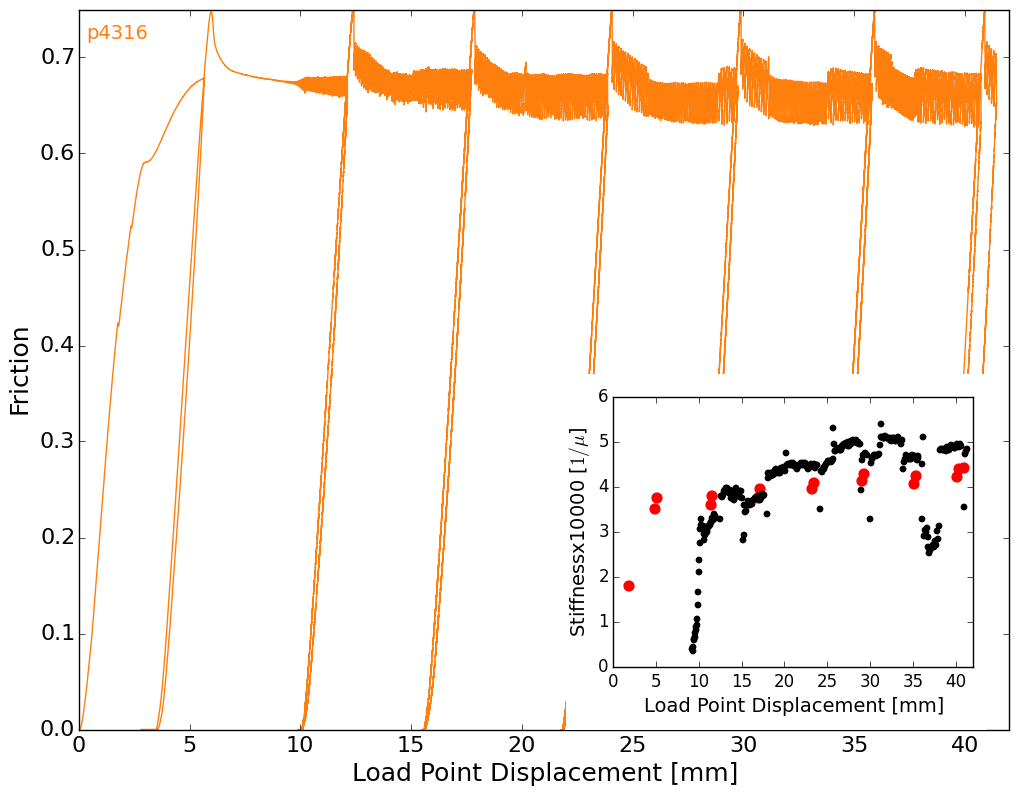
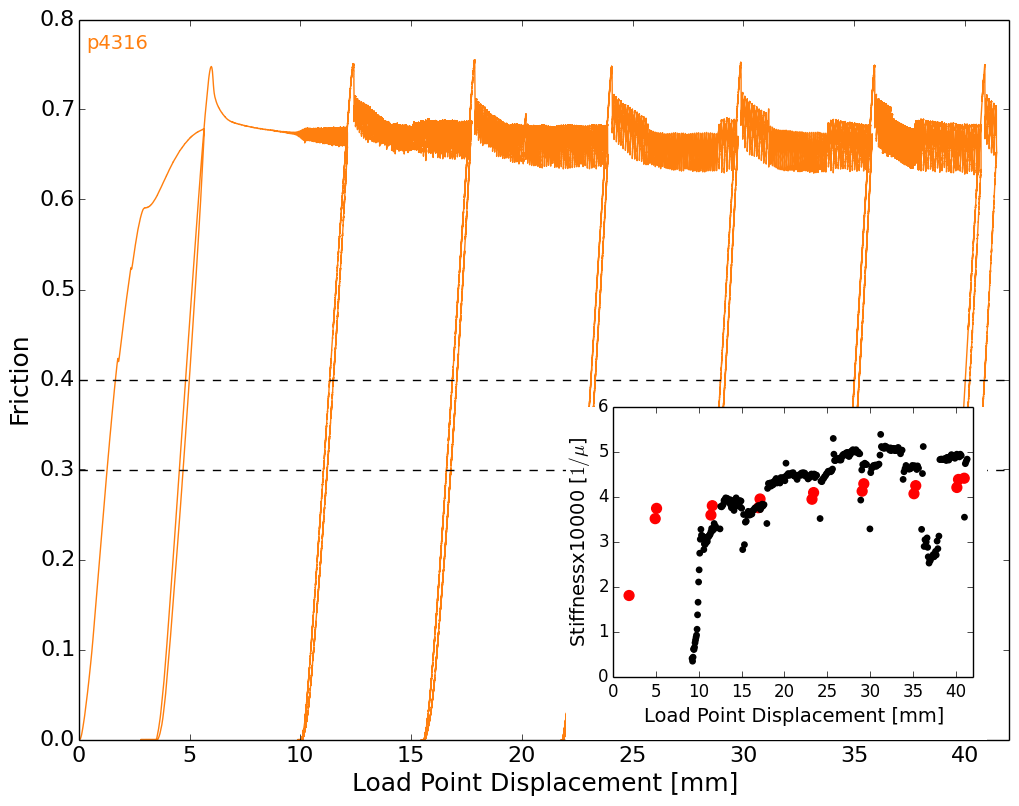
Add horizontal lines to mark linear potion and change y axis scaling

diff --git a/Figures/Fig_Unload_Reloads/make_plot.py b/Figures/Fig_Unload_Reloads/make_plot.py
@@ -54,7 +54,11 @@ axA.tick_params(axis='both', which='major', labelsize=16)
 
 axA.plot(p4316['LP_Disp'][::10]/1000.,p4316['mu'][::10],color=tableau20[2],linewidth=1)
 
-axA.set_ylim(0,0.75)
+# Add horizontal lines to denote where stiffness was picked
+axA.axhline(y=0.3,color='k',linestyle='--')
+axA.axhline(y=0.4,color='k',linestyle='--')
+
+axA.set_ylim(0,0.8)
 axA.set_xlim(0,42)
 
 rect = mpatches.Rectangle((22,0.0),19,0.37, ec="none",fc="white",zorder=10)
